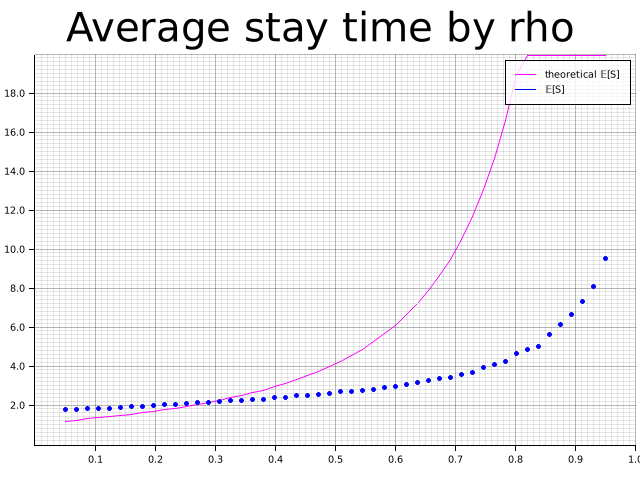
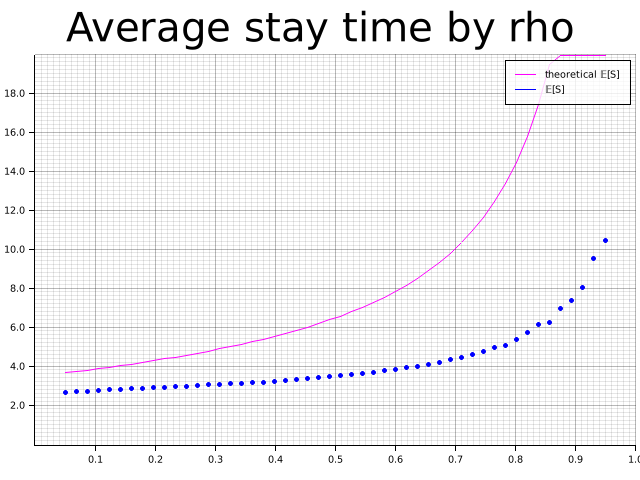
trying with warmup as erlang

diff --git a/src/main.rs b/src/main.rs
@@ -29,8 +29,11 @@ fn main() {
 
     let theta = 0.6; // parameter for the warmup (setup) random distribution (exp)
 
-    launch_exp(simulations_by_batch, arrivals_number, theta, &rhos);
-    launch_erlang(simulations_by_batch, arrivals_number, theta, &rhos);
+    // launch_exp(simulations_by_batch, arrivals_number, theta, &rhos);
+
+    let w_k = 10;
+    let w_beta = 0.4;
+    launch_erlang(simulations_by_batch, arrivals_number, w_k, w_beta, &rhos);
 }
 
 fn launch_exp(simulations_by_batch: usize, arrivals_number: usize, theta: f64, rhos: &[f64]) {
@@ -93,7 +96,9 @@ fn launch_exp(simulations_by_batch: usize, arrivals_number: usize, theta: f64, r
             mu: Some(mu),
             k: None,
             beta: None,
-            theta,
+            theta: Some(theta),
+            w_k: None,
+            w_beta: None,
             avg_stay_time,
             corrected_standard_deviation_avg_stay,
             probability_p_off,
@@ -108,7 +113,13 @@ fn launch_exp(simulations_by_batch: usize, arrivals_number: usize, theta: f64, r
     let _ = print_p_off_graph(&values, "images/exp_p_off_by_rho");
 }
 
-fn launch_erlang(simulations_by_batch: usize, arrivals_number: usize, theta: f64, rhos: &[f64]) {
+fn launch_erlang(
+    simulations_by_batch: usize,
+    arrivals_number: usize,
+    w_k: usize,
+    w_beta: f64,
+    rhos: &[f64],
+) {
     let mut values: Vec<Data> = Vec::new();
     let k: usize = 5; // Erlang shape
     let lambda = 1.0; // Poisson param
@@ -120,7 +131,7 @@ fn launch_erlang(simulations_by_batch: usize, arrivals_number: usize, theta: f64
         let simulations = (0..=simulations_by_batch)
             .collect::<Vec<_>>()
             .par_iter()
-            .map(|_| erlang_service_time(arrivals_number, lambda, theta, k, beta))
+            .map(|_| erlang_service_time(arrivals_number, lambda, w_k, w_beta, k, beta))
             .collect::<Vec<Simulation>>();
 
         let avg_stay_time = simulations
@@ -177,7 +188,9 @@ fn launch_erlang(simulations_by_batch: usize, arrivals_number: usize, theta: f64
             mu: None,
             k: Some(k),
             beta: Some(beta),
-            theta,
+            theta: None,
+            w_k: Some(w_k),
+            w_beta: Some(w_beta),
             avg_stay_time,
             corrected_standard_deviation_avg_stay,
             probability_p_off,
@@ -188,8 +201,8 @@ fn launch_erlang(simulations_by_batch: usize, arrivals_number: usize, theta: f64
         });
     }
     let _ = print_avg_stay_graph_for_erlang(&values);
-    let _ = print_p_setup_graph(&values, "images/erlang_p_setup_by_rho");
-    let _ = print_p_off_graph(&values, "images/erlang_p_off_by_rho");
+    // let _ = print_p_setup_graph(&values, "images/erlang_p_setup_by_rho");
+    // let _ = print_p_off_graph(&values, "images/erlang_p_off_by_rho");
 }
 
 /// Wrapper for the queue function, M/G/1 with service time distributed as exponential
@@ -215,12 +228,22 @@ fn exp_service_time(n: usize, lambda: f64, mu: f64, theta: f64) -> Simulation {
 /// service: erlang of parameters k, beta (beta is scale)
 /// warmup: exponential of parameter theta
 /// n people are allowed to enter the queue
-fn erlang_service_time(n: usize, lambda: f64, theta: f64, k: usize, beta: f64) -> Simulation {
+fn erlang_service_time(
+    n: usize,
+    lambda: f64,
+    w_k: usize,
+    w_beta: f64,
+    k: usize,
+    beta: f64,
+) -> Simulation {
     assert!(lambda * k as f64 * beta < 1.0);
 
     let inter_arrival_param = Parameter::Poisson(PoissonParameter { lambda });
     let service_param = Parameter::Erlang(ErlangParameter { k, beta });
-    let warming_up_param = Parameter::Exponential(ExponentialParameter { lambda: theta });
+    let warming_up_param = Parameter::Erlang(ErlangParameter {
+        k: w_k,
+        beta: w_beta,
+    });
 
     queue(n, inter_arrival_param, service_param, warming_up_param).unwrap()
 }

diff --git a/src/measures.rs b/src/measures.rs
@@ -5,7 +5,9 @@ pub struct Data {
     pub mu: Option<f64>,   // only for exp
     pub k: Option<usize>,  // only for erlang
     pub beta: Option<f64>, // only for erlang
-    pub theta: f64,
+    pub theta: Option<f64>,
+    pub w_k: Option<usize>,
+    pub w_beta: Option<f64>,
     pub avg_stay_time: f64,
     pub corrected_standard_deviation_avg_stay: f64,
     pub probability_p_off: f64,
@@ -50,17 +52,24 @@ pub fn theoretic_p_setup_gen(rho: f64, lambda: f64, expectation_start: f64) -> f
     (1.0 - rho) * expectation_start / (1.0 / lambda + expectation_start)
 }
 
-pub fn theoretic_stay_avg_erlang(lambda: f64, theta: f64, rho: f64, k: usize, beta: f64) -> f64 {
+pub fn theoretic_stay_avg_erlang(
+    lambda: f64,
+    w_k: usize,
+    w_beta: f64,
+    rho: f64,
+    k: usize,
+    beta: f64,
+) -> f64 {
     assert!(1.0 < (1.0 / beta));
     let e_b = 1.0 / ((1.0 - beta).powi(k as i32)); // with moment generator
     let e_b = k as f64 * beta; // mean
-    let e_t = 1.0 / (1.0 - 1.0 / theta); // with moment generator
-    let e_t = 1.0 / theta; // mean
+                               // let e_t = 1.0 / (1.0 - 1.0 / theta); // with moment generator
+    let e_t = w_k as f64 * w_beta;
 
-    let e_bb = k as f64 / lambda / lambda; // variance
     let e_bb = 1.0 / ((1.0 - 2.0 * beta).powi(k as i32)); // with moment generator
-    let e_tt = theta * theta; // variance
-    let e_tt = 1.0 / (1.0 - 2.0 / theta); // with moment generator
+    let e_bb = k as f64 / lambda / lambda; // variance
+                                           // let e_tt = 1.0 / (1.0 - 2.0 / theta); // with moment generator
+    let e_tt = w_k as f64 * w_beta * w_beta; // variance
 
     let e_rb = e_bb / 2.0 / e_b;
     let e_rt = e_tt / 2.0 / e_t;

diff --git a/src/graphs.rs b/src/graphs.rs
@@ -15,7 +15,7 @@ pub fn print_avg_stay_graph_for_exp(values: &Vec<Data>) -> Result<(), Box<dyn st
 
     let theoretical_avg_stay = values
         .iter()
-        .map(|v| theoretic_stay_avg_exp(v.rho, v.mu.unwrap(), v.theta))
+        .map(|v| theoretic_stay_avg_exp(v.rho, v.mu.unwrap(), v.theta.unwrap()))
         .collect::<Vec<_>>();
 
     let rhos = values.iter().map(|v| v.rho).collect::<Vec<_>>();
@@ -136,7 +136,16 @@ pub fn print_avg_stay_graph_for_erlang(
 
     let theoretical_avg_stay = values
         .iter()
-        .map(|v| theoretic_stay_avg_erlang(v.lambda, v.theta, v.rho, v.k.unwrap(), v.beta.unwrap()))
+        .map(|v| {
+            theoretic_stay_avg_erlang(
+                v.lambda,
+                v.w_k.unwrap(),
+                v.w_beta.unwrap(),
+                v.rho,
+                v.k.unwrap(),
+                v.beta.unwrap(),
+            )
+        })
         .collect::<Vec<_>>();
 
     let rhos = values.iter().map(|v| v.rho).collect::<Vec<_>>();
@@ -258,7 +267,7 @@ pub fn print_p_setup_graph(
 
     let theoretical_p_setup = values
         .iter()
-        .map(|v| theoretic_p_setup_exp(v.rho, v.lambda, v.theta))
+        .map(|v| theoretic_p_setup_exp(v.rho, v.lambda, v.theta.unwrap()))
         .collect::<Vec<_>>();
 
     let rhos = values.iter().map(|v| v.rho).collect::<Vec<_>>();
@@ -376,7 +385,7 @@ pub fn print_p_off_graph(
 
     let theoretical_p_off = values
         .iter()
-        .map(|v| theoretic_p_off_exp(v.rho, v.lambda, v.theta))
+        .map(|v| theoretic_p_off_exp(v.rho, v.lambda, v.theta.unwrap()))
         .collect::<Vec<_>>();
 
     let rhos = values.iter().map(|v| v.rho).collect::<Vec<_>>();
